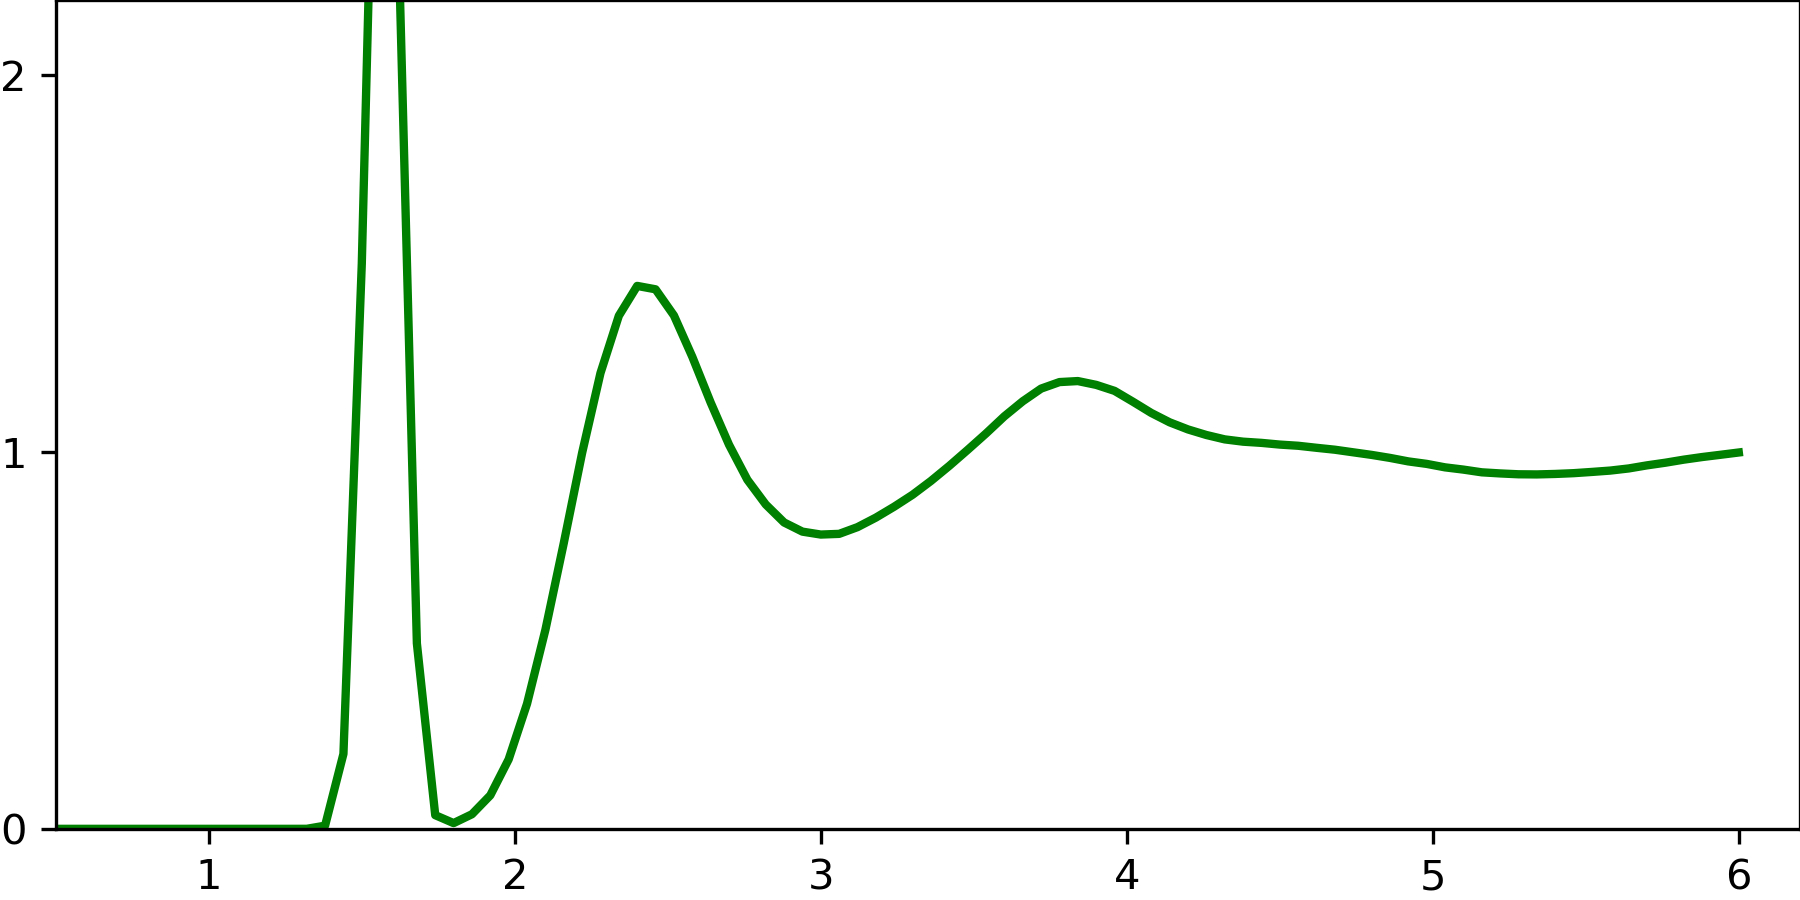
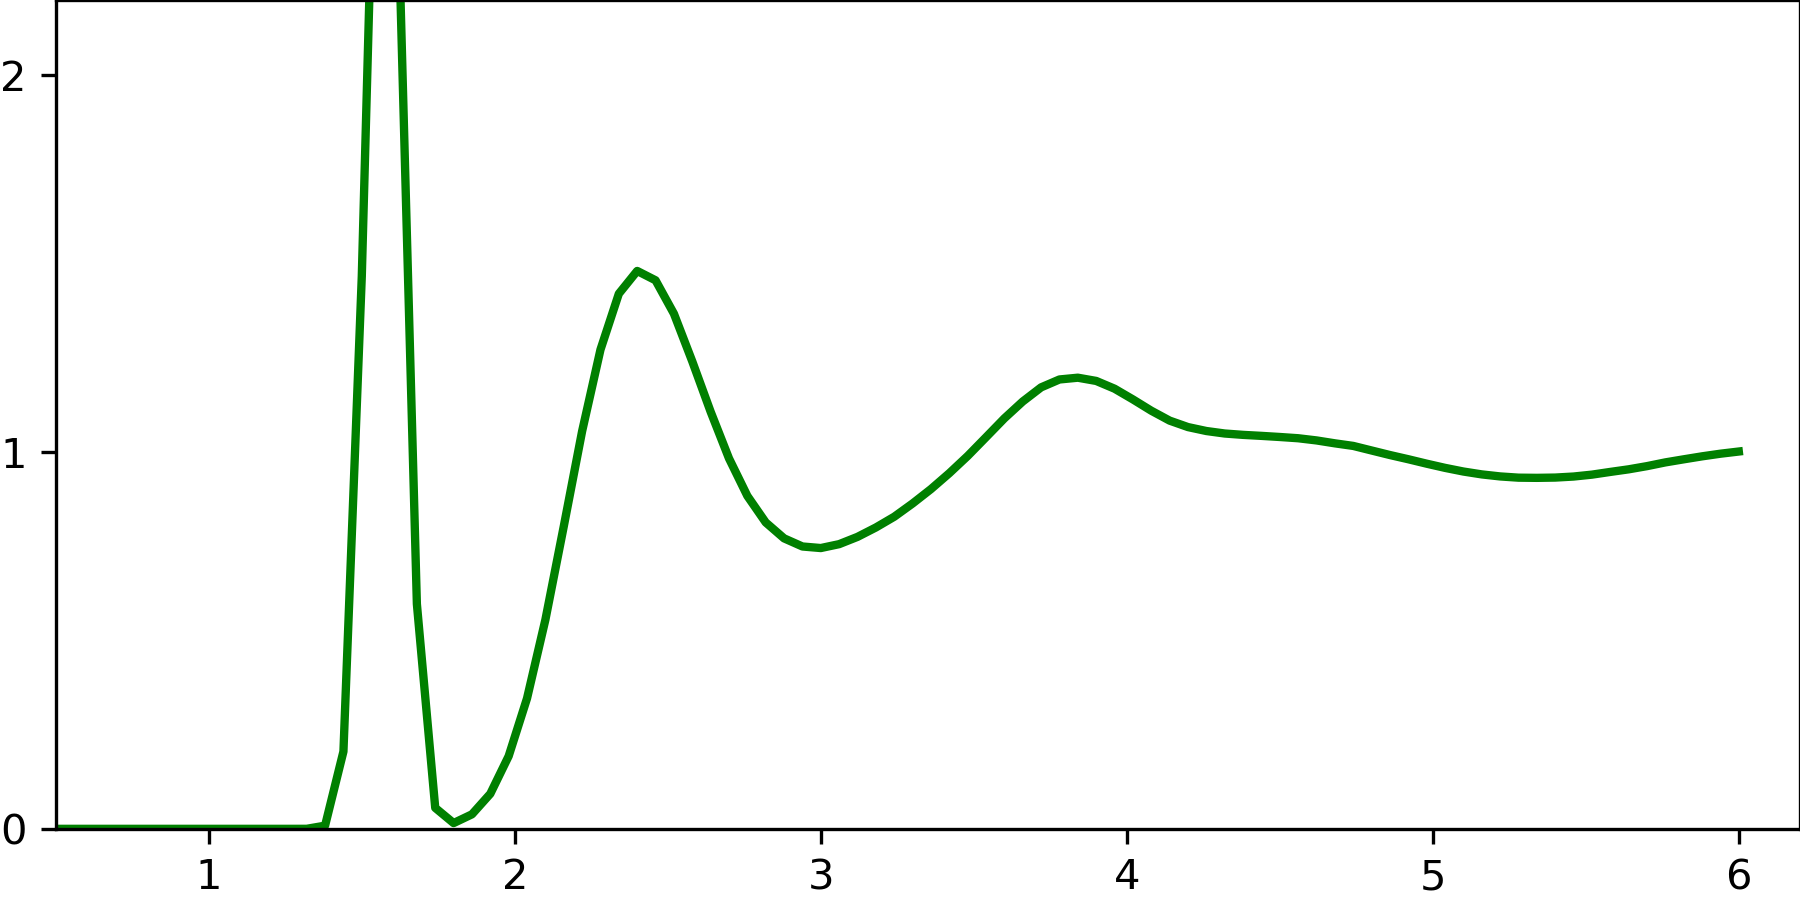
update for early stop message passing

diff --git a/src/mattertune/wrappers/ase_calculator.py b/src/mattertune/wrappers/ase_calculator.py
@@ -16,7 +16,10 @@ if TYPE_CHECKING:
 
 class MatterTuneCalculator(Calculator):
     @override
-    def __init__(self, property_predictor: MatterTunePropertyPredictor):
+    def __init__(
+        self, 
+        property_predictor: MatterTunePropertyPredictor,
+    ):
         super().__init__()
 
         self.property_predictor = property_predictor
@@ -125,7 +128,13 @@ class MatterTuneCalculator(Calculator):
             self.results[ase_prop_name] = value
 
 
+import time
+
 class MatterTuneIntenseCalculator(Calculator):
+    """
+    A faster version of the MatterTuneCalculator that uses the `predict_step` method directly without creating a trainer.
+    """
+    
     @override
     def __init__(self, model: FinetuneModuleBase, device: torch.device):
         super().__init__()
@@ -141,6 +150,10 @@ class MatterTuneIntenseCalculator(Calculator):
                 continue
             self.implemented_properties.append(ase_prop_name)
             self._ase_prop_to_config[ase_prop_name] = prop
+        
+        self.prepare_times = []
+        self.forward_times = []
+        self.collect_times = []
 
     @override
     def calculate(
@@ -149,8 +162,8 @@ class MatterTuneIntenseCalculator(Calculator):
         properties: list[str] | None = None,
         system_changes: list[str] | None = None,
     ):
-        # if properties is None:
-        #     properties = copy.deepcopy(self.implemented_properties)
+        if properties is None:
+            properties = copy.deepcopy(self.implemented_properties)
 
         # Call the parent class to set `self.atoms`.
         Calculator.calculate(self, atoms)
@@ -167,16 +180,21 @@ class MatterTuneIntenseCalculator(Calculator):
             "Please report this as a bug."
         )
         
+        time1 = time.time()
         data = self.model.atoms_to_data(self.atoms, has_labels=False)
         batch = self.model.collate_fn([data])
         batch = batch.to(self.model.device)
+        self.prepare_times.append(time.time() - time1)
         
-        prop_configs = [self._ase_prop_to_config[prop] for prop in self.implemented_properties]
+        time1 = time.time()
         pred = self.model.predict_step(
             batch = batch,
             batch_idx = 0,
         )
+        self.forward_times.append(time.time() - time1)
         
+        time1 = time.time() 
+        prop_configs = [self._ase_prop_to_config[prop] for prop in properties]
         for prop in prop_configs:
             ase_prop_name = prop.ase_calculator_property_name()
             assert ase_prop_name is not None, (
@@ -185,10 +203,10 @@ class MatterTuneIntenseCalculator(Calculator):
                 "Please report this as a bug."
             )
 
-            value = pred[prop.name].detach().to(torch.float32).cpu().numpy()
+            value = pred[prop.name].detach().to(torch.float32).cpu().numpy() # type: ignore
             value = value.astype(prop._numpy_dtype())
             value = prop.prepare_value_for_ase_calculator(value)
 
             self.results[ase_prop_name] = value
-        
+        self.collect_times.append(time.time() - time1)
         

diff --git a/src/mattertune/finetune/base.py b/src/mattertune/finetune/base.py
@@ -28,6 +28,9 @@ log = logging.getLogger(__name__)
 
 class FinetuneModuleBaseConfig(C.Config, ABC):
     
+    reset_backbone: bool = False
+    """Whether to reset the backbone of the model when creating the model."""
+    
     reset_output_heads: bool = False
     """Whether to reset the output heads of the model when creating the model."""
     
@@ -57,6 +60,9 @@ class FinetuneModuleBaseConfig(C.Config, ABC):
 
     The normalizers are applied in the order they are defined in the list.
     """
+    
+    early_stop_message_passing: int | None = None
+    """Number of message passing steps for early stopping. If None, no early stopping is applied."""
 
     @classmethod
     @abstractmethod
@@ -159,6 +165,13 @@ class FinetuneModuleBase(
 
         You should also construct any other ``nn.Module`` instances
         necessary for the forward pass here.
+        """
+        ...
+        
+    @abstractmethod
+    def apply_early_stop_message_passing(self, message_passing_steps: int|None):
+        """
+        Apply message passing for early stopping.
         """
         ...
 
@@ -326,6 +339,7 @@ class FinetuneModuleBase(
 
         # Create the backbone model and output heads
         self.create_model()
+        self.apply_early_stop_message_passing(self.hparams.early_stop_message_passing)
 
         # Create metrics
         self.create_metrics()
@@ -704,7 +718,10 @@ class FinetuneModuleBase(
         self, 
         # lightning_trainer_kwargs: dict[str, Any] | None = None,
         device: str = "cpu",
-        intense: bool = False
+        intense: bool = False,
+        energy_weight: float = 1.0,
+        force_weight: float = 1.0,
+        stress_weight: float = 1.0,
     ):
         """Returns an ASE calculator wrapper for the interatomic potential.
 
@@ -758,7 +775,6 @@ class FinetuneModuleBase(
                 "enable_progress_bar": False,
                 "enable_model_summary": False,
                 "logger": False,
-                "barebones": True,
             }
             property_predictor = self.property_predictor(
                 lightning_trainer_kwargs=lightning_trainer_kwargs

diff --git a/src/mattertune/backbones/jmp/model.py b/src/mattertune/backbones/jmp/model.py
@@ -128,9 +128,6 @@ class JMPBackboneConfig(FinetuneModuleBaseConfig):
     freeze_backbone: bool = False
     """Whether to freeze the backbone during training."""
 
-    freeze_backbone: bool = False
-    """Whether to freeze the backbone during training."""
-
     @override
     def create_model(self):
         return JMPBackboneModule(self)
@@ -258,6 +255,12 @@ class JMPBackboneModule(FinetuneModuleBase["Data", "Batch", JMPBackboneConfig]):
 
         assert ckpt_path is not None
         self.backbone = GemNetOCBackbone.from_pretrained_ckpt(ckpt_path)
+        
+        if self.hparams.reset_backbone:
+            for module in self.backbone.modules():
+                if hasattr(module, "reset_parameters"):
+                    module.reset_parameters()
+        
         log.info(
             f"Loaded the model from the checkpoint at {ckpt_path}. The model "
             f"has {sum(p.numel() for p in self.backbone.parameters()):,} parameters."
@@ -431,6 +434,16 @@ class JMPBackboneModule(FinetuneModuleBase["Data", "Batch", JMPBackboneConfig]):
         )
         compositions = compositions[:, 1:]  # Remove the zeroth element
         return NormalizationContext(compositions=compositions)
+    
+    @override
+    def apply_early_stop_message_passing(self, message_passing_steps: int|None):
+        """
+        Apply message passing for early stopping.
+        """
+        if message_passing_steps is None:
+            pass
+        else:
+            self.backbone.num_blocks = min(self.backbone.num_blocks, message_passing_steps)
 
 
 def _get_fixed(atoms: Atoms):

diff --git a/examples/water-thermodynamics/draw_rdf_plots.py b/examples/water-thermodynamics/draw_rdf_plots.py
@@ -27,11 +27,16 @@ gOO_eqv2_data = np.load("./results/eqv2-30-refill-g_OO(r).npz")
 gOO_eqv2_r_values = gOO_eqv2_data["rdf_x"]
 gOO_eqv2_g_values = gOO_eqv2_data["rdf_y"]
 
+gOO_mattersim_mpx2_data = np.load("./results/mattersim-1m-mpx2-g_OO(r).npz")
+gOO_mattersim_mpx2_r_values = gOO_mattersim_mpx2_data["rdf_x"]
+gOO_mattersim_mpx2_g_values = gOO_mattersim_mpx2_data["rdf_y"]
+
 plt.scatter(gOO_benchmark_r_values, gOO_benchmark_g_values, label="Experiment", color="black", marker="o", s=10)
 plt.plot(gOO_mattersim_r_values, gOO_mattersim_g_values, label="MatterSim-V1-1M (30 samples)", color="#EA8379", linewidth=2)
-plt.plot(gOO_jmp_r_values, gOO_jmp_g_values, label="JMP-S (30 samples)", color="#7DAEE0", linestyle="dashed", linewidth=2)
-plt.plot(gOO_orb_r_values, gOO_orb_g_values, label="ORB-V2 (30 samples)", color="#B395BD", linestyle=":", linewidth=2)
-plt.plot(gOO_eqv2_r_values, gOO_eqv2_g_values, label="EqV2-31M (30 samples)", color="#1B7C3D", linestyle="-.", linewidth=2)
+# plt.plot(gOO_jmp_r_values, gOO_jmp_g_values, label="JMP-S (30 samples)", color="#7DAEE0", linestyle="dashed", linewidth=2)
+# plt.plot(gOO_orb_r_values, gOO_orb_g_values, label="ORB-V2 (30 samples)", color="#B395BD", linestyle=":", linewidth=2)
+# plt.plot(gOO_eqv2_r_values, gOO_eqv2_g_values, label="EqV2-31M (30 samples)", color="#1B7C3D", linestyle="-.", linewidth=2)
+plt.plot(gOO_mattersim_r_values, gOO_mattersim_mpx2_g_values, label="MatterSim-V1-1M-MPX2 (30 samples)", color="#7DAEE0", linestyle="dotted", linewidth=2)
 
 plt.xlabel(r"$r$ ($\AA$)")
 plt.ylabel(r"$g_{OO}(r)$")

diff --git a/examples/water-thermodynamics/md.py b/examples/water-thermodynamics/md.py
@@ -54,7 +54,7 @@ def main(args_dict: dict):
             "Invalid fine-tuning model, must be one of 'jmp', 'orb', 'm3gnet', or 'mattersim', 'eqv2'"
         )
     calc = model.ase_calculator(
-        device=f"cuda:{args_dict['device']}",
+        device=f"cuda:{args_dict['device']}", intense=True
     )
     atoms = read(args_dict["init_struct"])
     assert isinstance(atoms, Atoms), "Expected an Atoms object"
@@ -134,11 +134,11 @@ if __name__ == "__main__":
     parser.add_argument(
         "--ckpt_path",
         type=str,
-        default="./checkpoints/eqv2-best-30-refill.ckpt",
+        default="/nethome/lkong88/MatterTune/examples/hidden/early_stop_mp/water-checkpoints/mattersim-1m-best-30-refill-reset_backbone.ckpt",
     )
     parser.add_argument("--thermo_state", type=str, default="NPT")
     parser.add_argument("--init_struct", type=str, default="./data/H2O.xyz")
-    parser.add_argument("--device", type=int, default=1)
+    parser.add_argument("--device", type=int, default=0)
     parser.add_argument("--temperature", type=float, default=298)
     parser.add_argument("--timestep", type=float, default=0.5)
     parser.add_argument("--friction", type=float, default=0.02)

diff --git a/src/mattertune/backbones/orb/model.py b/src/mattertune/backbones/orb/model.py
@@ -219,6 +219,10 @@ class ORBBackboneModule(
 
         backbone = backbone.train()
         self.backbone = backbone
+        if self.hparams.reset_backbone:
+            for module in self.backbone.modules():
+                if hasattr(module, "reset_parameters"):
+                    module.reset_parameters()
 
         log.info(
             f'Loaded the ORB pre-trained model "{self.hparams.pretrained_model}". The model '
@@ -430,3 +434,15 @@ class ORBBackboneModule(
             raise ValueError("No composition found in the batch.")
         compositions = compositions[:, 1:]  # Remove the zeroth element
         return NormalizationContext(compositions=compositions)
+    
+    @override
+    def apply_early_stop_message_passing(self, message_passing_steps: int|None):
+        """
+        Apply message passing for early stopping.
+        """
+        if message_passing_steps is None:
+            pass
+        else:
+            self.backbone.num_message_passing_steps = min(
+                message_passing_steps, self.backbone.num_message_passing_steps
+            )

diff --git a/src/mattertune/backbones/mattersim/model.py b/src/mattertune/backbones/mattersim/model.py
@@ -132,6 +132,10 @@ class MatterSimM3GNetBackboneModule(
                 reset_head_for_finetune=True,
             )
         self.backbone.model.train()
+        if self.hparams.reset_backbone:
+            for module in self.backbone.modules():
+                if hasattr(module, "reset_parameters"):
+                    module.reset_parameters()
 
         if isinstance(self.hparams.graph_convertor, dict):
             self.hparams.graph_convertor = MatterSimGraphConvertorConfig(
@@ -310,3 +314,13 @@ class MatterSimM3GNetBackboneModule(
     @override
     def apply_callable_to_backbone(self, fn):
         return fn(self.backbone)
+    
+    @override
+    def apply_early_stop_message_passing(self, message_passing_steps: int|None):
+        """
+        Apply message passing for early stopping.
+        """
+        if message_passing_steps is None:
+            pass
+        else:
+            self.backbone.model.num_blocks = min(self.backbone.model.num_blocks, message_passing_steps)

diff --git a/src/mattertune/backbones/eqV2/model.py b/src/mattertune/backbones/eqV2/model.py
@@ -53,9 +53,6 @@ class EqV2BackboneConfig(FinetuneModuleBaseConfig):
     freeze_backbone: bool = False
     """Whether to freeze the backbone during training."""
 
-    freeze_backbone: bool = False
-    """Whether to freeze the backbone during training."""
-
     @override
     @classmethod
     def ensure_dependencies(cls):
@@ -493,3 +490,11 @@ class EqV2BackboneModule(FinetuneModuleBase["BaseData", "Batch", EqV2BackboneCon
         )
         compositions = compositions[:, 1:]  # Remove the zeroth element
         return NormalizationContext(compositions=compositions)
+    
+    @override
+    def apply_early_stop_message_passing(self, message_passing_steps: int|None):
+        """
+        Apply message passing for early stopping.
+        Does nothing for eqV2.
+        """
+        pass

diff --git a/examples/water-thermodynamics/rdf_analysis.py b/examples/water-thermodynamics/rdf_analysis.py
@@ -187,9 +187,9 @@ if __name__ == "__main__":
     parser.add_argument(
         "--md_traj",
         type=str,
-        default="/net/csefiles/coc-fung-cluster/lingyu/water_md/water_eqv2-best-30-refill_NPT.xyz",
+        default="/net/csefiles/coc-fung-cluster/lingyu/water_md/water_mattersim-1m-MPx2-30-refill_NPT.xyz",
     )
-    parser.add_argument("--n_frames", type=int, default=130000)
+    parser.add_argument("--n_frames", type=int, default=150000)
     parser.add_argument("--r_max", type=float, default=6.0)
     parser.add_argument("--r_step", type=float, default=0.06)
     parser.add_argument("--transparent", action="store_true")
